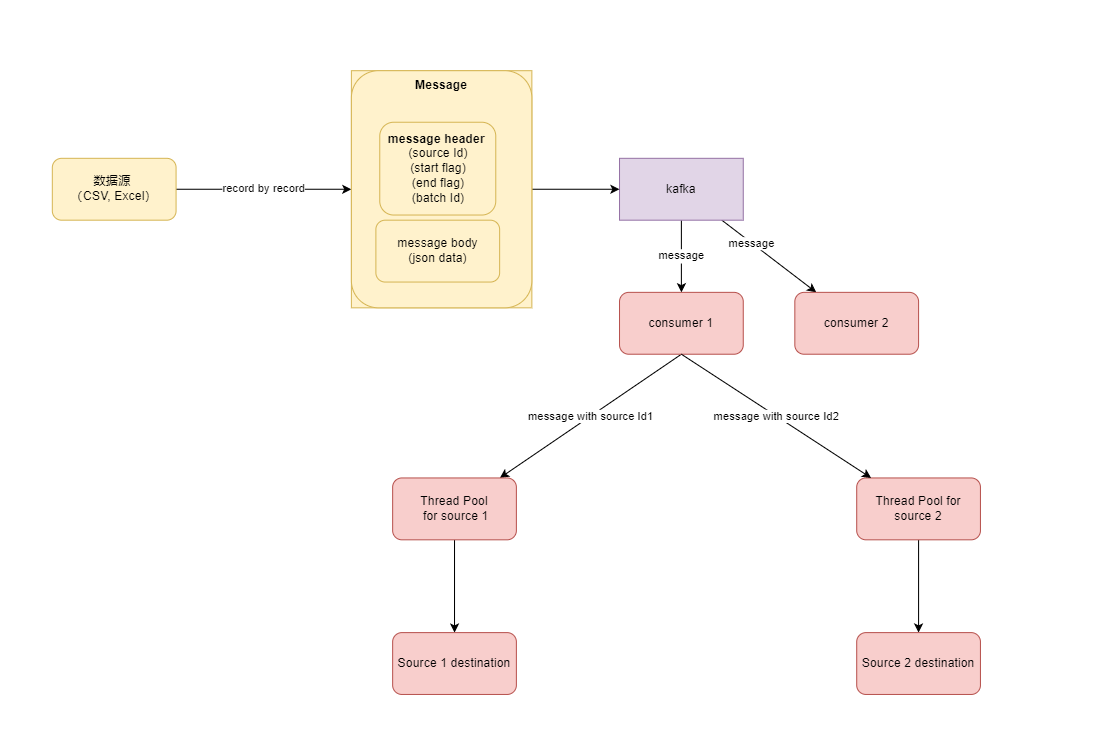
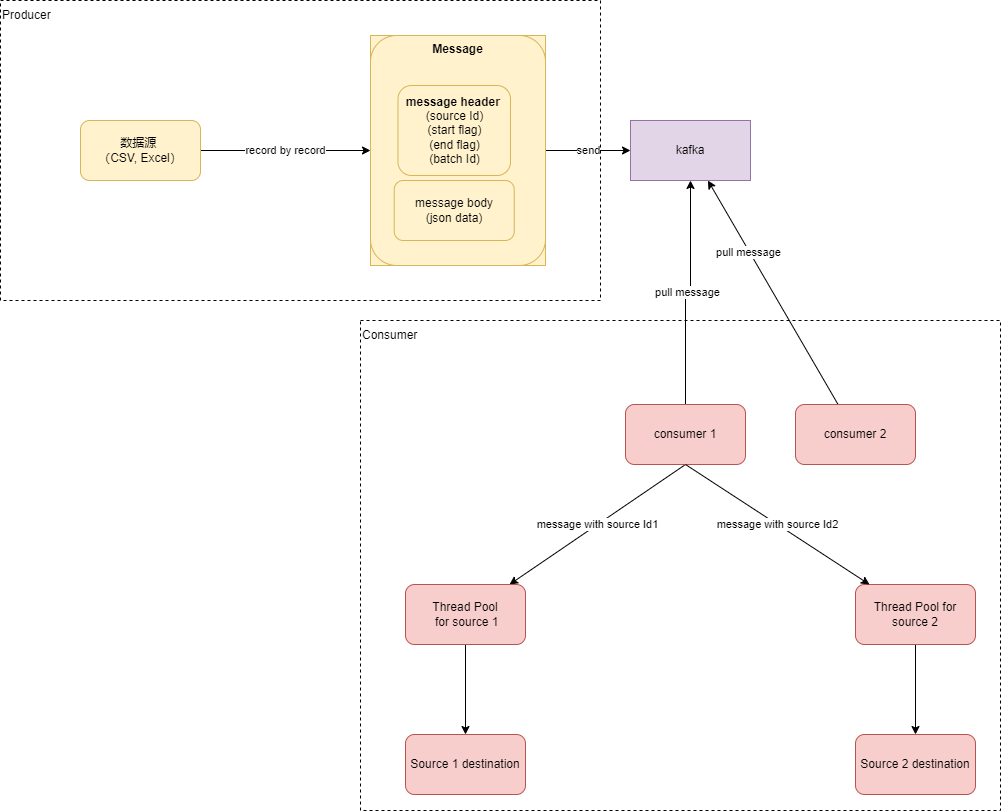
更新设计图

diff --git a/batch-consumer/src/main/java/com/ehi/consumer/reciver/KafkaReceiver.java b/batch-consumer/src/main/java/com/ehi/consumer/reciver/KafkaReceiver.java
@@ -36,7 +36,7 @@ public class KafkaReceiver {
     @Value("${application.data.resources}")
     private String resourceFolder;
 
-    Gson gson;
+    private Gson gson;
     private Cache<String, Props> cache;
 
 
